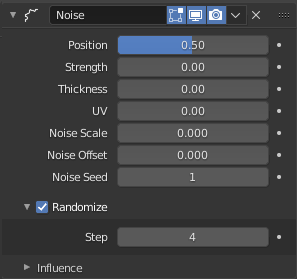
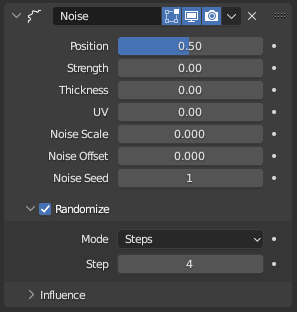
GPencil: Doc updates
git-svn-id: https://svn.blender.org/svnroot/bf-manual/trunk/blender_docs@9516 c4de1f47-6596-e411-a384-0024e86c2797

diff --git a/manual/grease_pencil/modifiers/modify/time_offset.rst b/manual/grease_pencil/modifiers/modify/time_offset.rst
@@ -5,12 +5,15 @@
 Time Offset Modifier
 ********************
 
-The *Time Offset* Modifier offsets the position of Grease Pencil keyframes.
-For example can be used to start the same animation loop
-at different times and avoid an unappealing synchronization of the loops.
-Or if you have different character poses in several keyframes,
-the Time Offset Modifier can be use to select which pose to show at a particular time in the animation.
-This is especially useful for cut-out animation.
+The *Time Offset* Modifier applies a temporal offset to Grease Pencil keyframes on your timeline.
+If you have duplicated a Grease Pencil object you can use the Time Offset Modifier on the copies to desynchronize their animation. This can give more natural looking results.
+
+
+Using the Time Offset Modifier it's possible to have Grease Pencil frame ranges play back as repeating loops. Traditionally, 2D animation that uses looped drawings includes characters walking, rising smoke, and falling rain.
+In Fixed Frame mode the Time Offset Modifier can display drawings on your timeline entirely independently of the playhead position. 
+
+
+This can be handy for displaying drawings that will appear often in your animation. Think of switching between predefined mouth shapes for instance.
 
 
 Options
@@ -23,22 +26,25 @@ Options
 
 Mode
    Regular
-      Offsets keyframes in default animation playback direction (left to right).
+      Offsets keyframes in the default animation playback direction (playhead moving from left to right).
 
    Reverse
-      Offsets keyframes in inverse animation playback direction (right to left).
+      Offsets keyframes in reversed animation playback direction (playhead moving from right to left).
 
    Fixed Frame
-      Keep the selected frame fixed and do not change over time.
+      The Frame parameter determines which frame is displayed. This value needs to be animated in order to have the displayed frame change during playback.
 
       Frame
-         Frame number to use.
+         The number of the frame to display.
+
+   Ping Pong
+      Loop back and forth animation.
 
 Frame Offset
-   Number of frames to offset the original keyframes.
+   The number of frames to offset the original keyframes by.
 
 Scale
-   Evaluation time (in seconds).
+   Controls the speed of the frames playback. 1 is equal to the actual frame rate, could be positive (faster) or negative (slower).
 
 Keep Loop
    Moves end frame to the animation start to keep animation in a loop.
@@ -47,7 +53,7 @@ Keep Loop
 Custom Range
 ------------
 
-When enabled, uses a custom range of frames.
+When enabled, the animation playback is restricted only to a frame range.
 
 Frame Start/End
    Sets the range start and end frames.

diff --git a/manual/grease_pencil/modifiers/deform/noise.rst b/manual/grease_pencil/modifiers/deform/noise.rst
@@ -47,8 +47,15 @@ Randomize
 
 When enabled, the noise uses a random value over time.
 
-Step
-   Number of frames before using a new random value.
+Mode
+   Steps
+      New random value at defined steps.
+
+      Step
+         Number of frames before using a new random value.
+
+   keyframes
+      New random value only on keyframes.
 
 
 Influence

diff --git a/manual/grease_pencil/modes/sculpting/tool_settings/brush.rst b/manual/grease_pencil/modes/sculpting/tool_settings/brush.rst
@@ -55,6 +55,19 @@ Direction
    The influence direction of the brush. This can be Add or Subtract.
 
 
+Advanced
+========
+
+Auto-Masking
+   Strokes
+      Affect only strokes under the cursor.
+
+   Material
+      Affect only the active material.
+
+   Layer
+      Affect only the active layer.
+
 Cursor
 ======
 

diff --git a/manual/grease_pencil/modes/sculpting/introduction.rst b/manual/grease_pencil/modes/sculpting/introduction.rst
@@ -49,3 +49,4 @@ Keyboard Shortcuts
 ==================
 
 - Invert stroke toggle :kbd:`Ctrl`
+- Change active material :kbd:`U`
